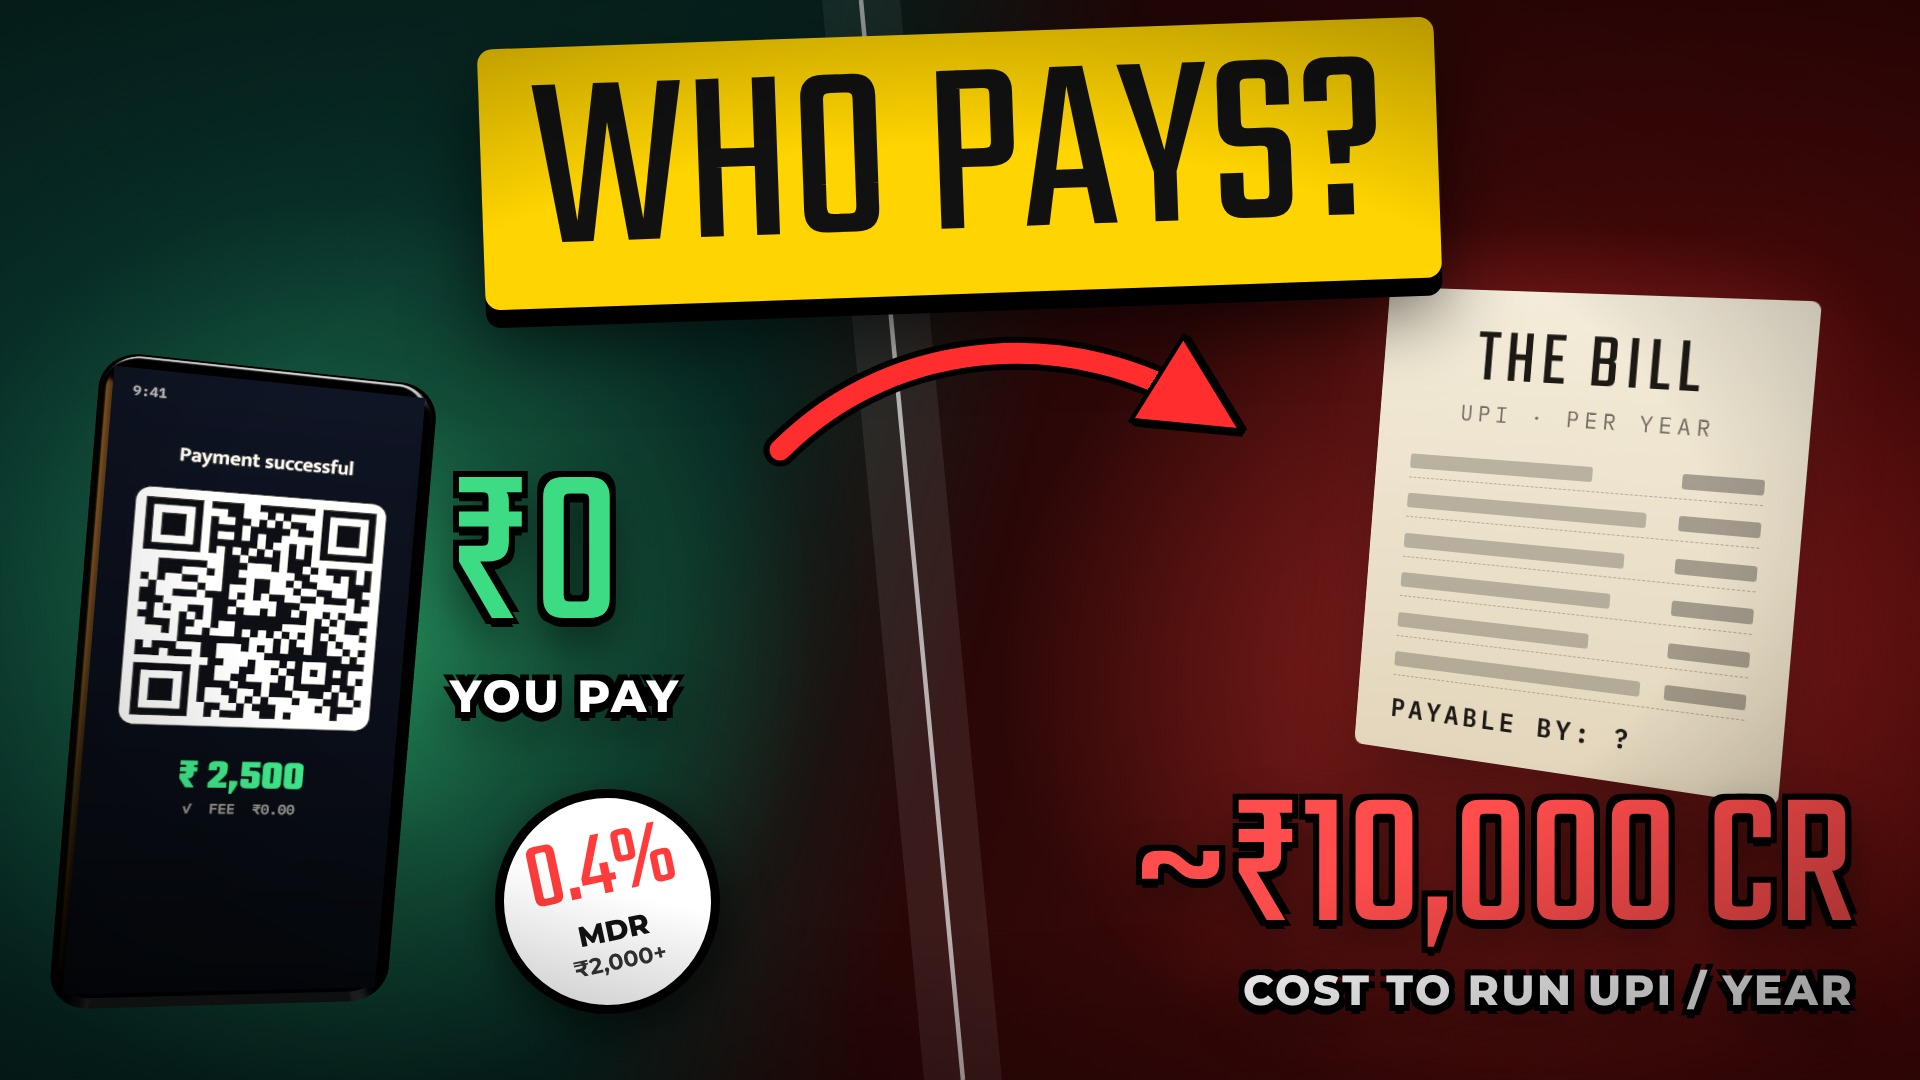
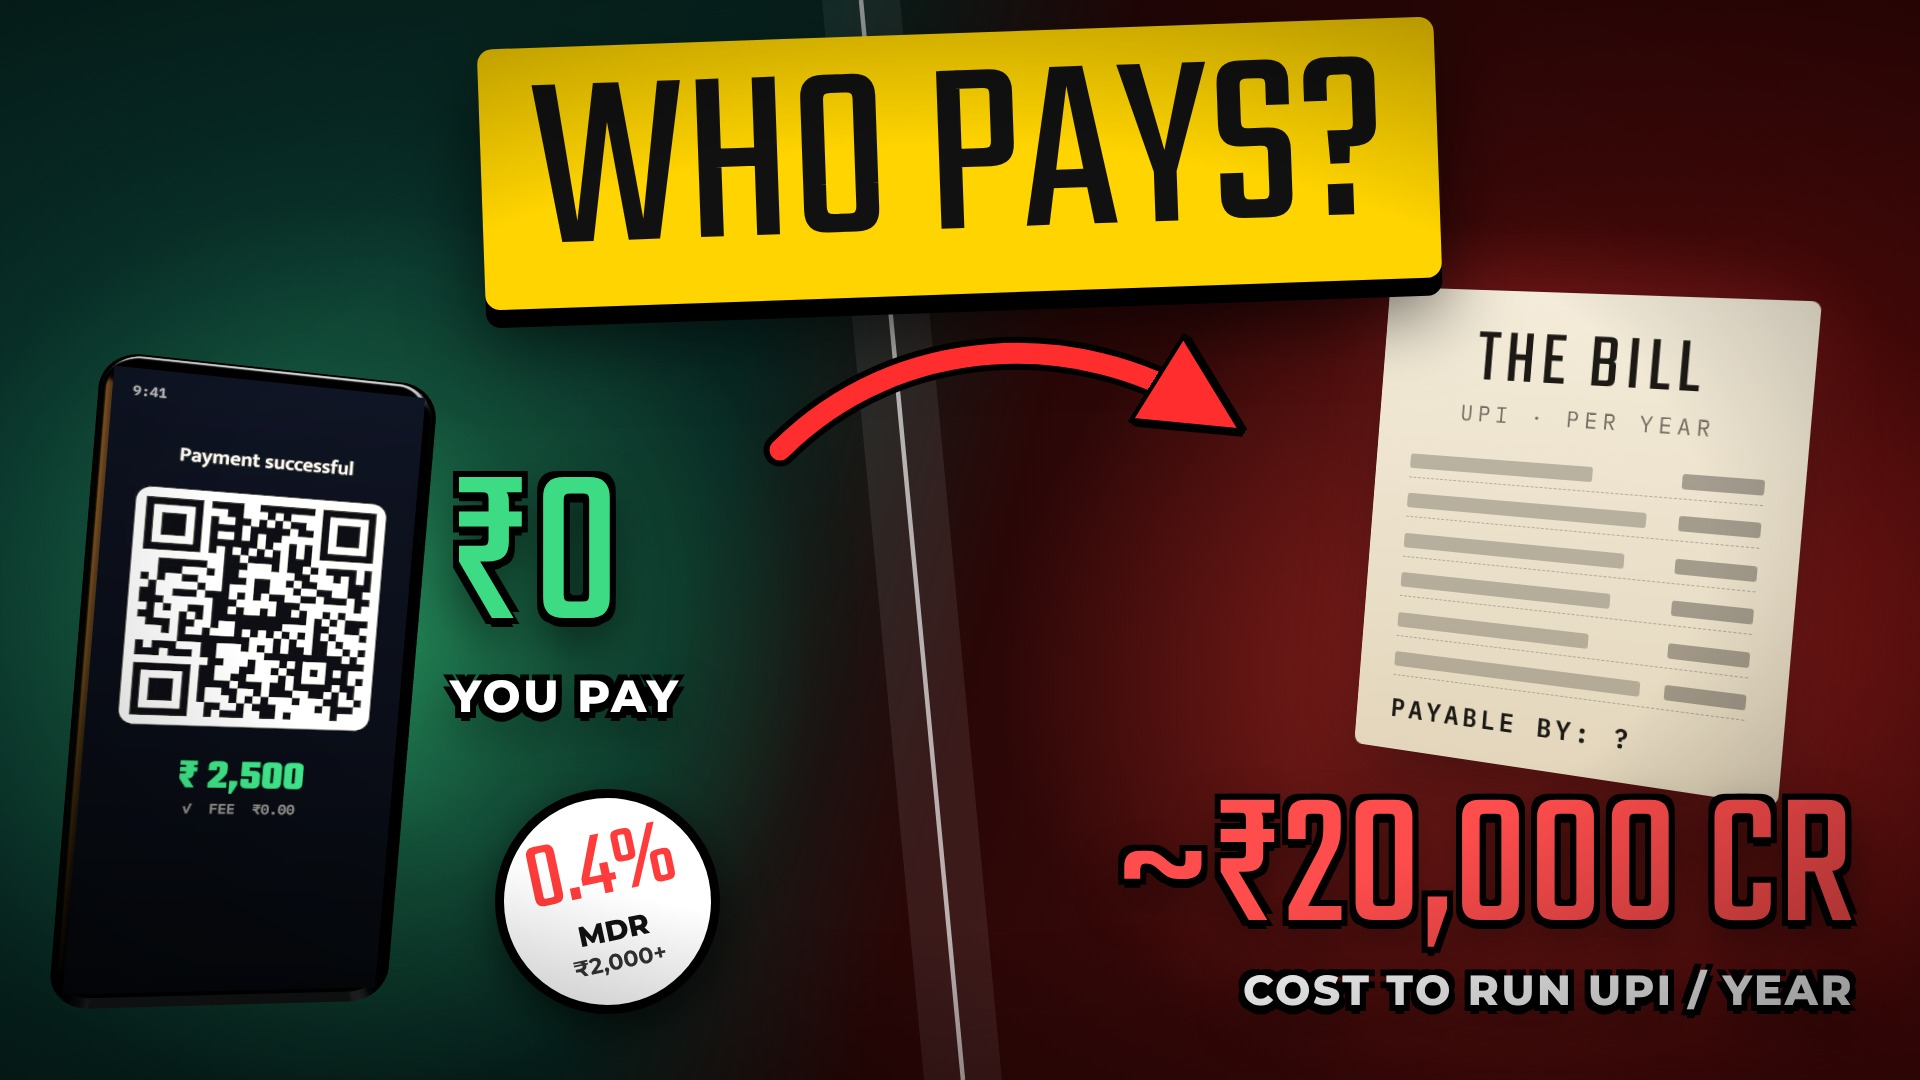
Real official documents in S31; primary-source fact checks; thumbnail uses official cost figure
- S31 shows the genuine Gazette of India S.O. 5067(E) of 14 Sep 2026 (Hindi page in the Hindi
  edition, English page in the English one; masthead cropped so the State Emblem is not shown)
  and the Ministry of Finance MDR FAQs of 15 Sep 2026 (logo cropped), with push-ins on the
  highlighted lines. Narration c3_02 now matches the pages shown.
- facts.md: 5.4 (flat Rs 5 for railways, telecom, insurance, fuel) confirmed from the FAQ (Q33)
  and the PIB release; 5.2 linked to the Gazette and FAQ PDFs; 5.8 stays unconfirmed (NPCI site
  refused downloads) and is not used; new 5.9: ~Rs 20,000 cr a year to run UPI (FAQ Q10).
- Thumbnail 3 now uses that official ~Rs 20,000 crore figure.

Claude-Session: https://claude.ai/code/session_016xnG3rMWhDawY9rWMhLxs2

Changed region(s): [[0.5625, 0.7333, 0.7188, 0.8861]]

diff --git a/upi-documentary/video/src/scenes/bill.tsx b/upi-documentary/video/src/scenes/bill.tsx
@@ -68,28 +68,44 @@ export const S31_Notification: React.FC<SceneProps> = ({ seg }) => {
   const second = L.c3_02.at + Math.round(L.c3_02.len * L.c3_02.fr(0.55));
   const a = prog(frame, L.c3_02.at, 26, ease.cam);
   const b = prog(frame, second, 26, ease.cam);
-  const cam = { x: keys(frame, [[0, -220], [second, -150], [seg.frames, 180]]), y: -20 + drift(frame, 3, 8), z: keys(frame, [[0, -180], [seg.frames, 60]]), ry: keys(frame, [[0, 8], [seg.frames, -8]]) };
+  // documentary push-ins: wide on the Gazette page, push to its highlighted line; then pan to the FAQ and push again
+  const W1 = lang === "en" ? 760 : 620;
+  const H1 = lang === "en" ? (W1 * 580) / 1324 : (W1 * 1190) / 1324;
+  const off1 = ((lang === "en" ? 0.62 : 0.695) - 0.5) * H1 * 1.04;
+  const off2 = (0.6 - 0.5) * ((560 * 1671) / 1323) * 0.97;
+  const X1 = -170, X2 = 330;
+  const cam = {
+    x: keys(frame, [[0, X1], [second, X1], [second + 34, X2], [seg.frames, X2 + 20]]),
+    y: keys(frame, [[0, 0], [L.c3_02.at + 40, off1 + 30], [second, off1 + 30], [second + 34, off2 + 20], [seg.frames, off2 + 20]]) + drift(frame, 3, 6),
+    z: keys(frame, [[0, -140], [second - 4, 560], [second + 34, 360], [seg.frames, 540]]),
+    ry: keys(frame, [[0, 6], [seg.frames, -6]]),
+  };
   return (
     <AbsoluteFill>
       <Backdrop hue="neutral" light={0.8} />
       <ParallaxWorld cam={cam}>
-        <Layer z={-80} x={-230} y={60 + (1 - a) * 400} rotateY={10} opacity={a}>
+        <Layer z={-60} x={X1} y={30 + (1 - a) * 400} rotateY={8} opacity={a}>
           <AbsoluteFill style={{ alignItems: "center", justifyContent: "center" }}>
             <div style={{ transform: "rotate(-3deg)" }}>
-              <DocPage name="mof_notification_2026-09-14" title={t("वित्त मंत्रालय — Notification", "Finance Ministry — Notification")} date="14 SEP 2026" width={440} highlight={{ top: 38, height: 5, p: prog(frame, L.c3_02.at + 30, 30) }} />
+              {/* Gazette of India Extraordinary, S.O. 5067(E): Hindi page for the Hindi edition, English page for the English one */}
+              {lang === "en" ? (
+                <DocPage name="mof_notification_2026-09-14_en" title="Gazette of India · S.O. 5067(E)" date="14 SEP 2026" width={W1} aspect={580 / 1324} highlight={{ top: 59.5, height: 5, p: prog(frame, L.c3_02.at + 30, 30) }} />
+              ) : (
+                <DocPage name="mof_notification_2026-09-14" title="भारत का राजपत्र · का.आ. 5067(अ)" date="14 SEP 2026" width={W1} aspect={1190 / 1324} highlight={{ top: 68, height: 3.5, p: prog(frame, L.c3_02.at + 30, 30) }} />
+              )}
             </div>
           </AbsoluteFill>
         </Layer>
-        <Layer z={20} x={330} y={30 + (1 - b) * 400} rotateY={-8} opacity={b}>
+        <Layer z={40} x={X2} y={20 + (1 - b) * 500} rotateY={-6} opacity={b}>
           <AbsoluteFill style={{ alignItems: "center", justifyContent: "center" }}>
             <div style={{ transform: "rotate(2.5deg)" }}>
-              <DocPage name="npci_circular_2026-09-15" title="NPCI — Operational Circular" date="15 SEP 2026" width={440} highlight={{ top: 44, height: 5, p: prog(frame, second + 24, 30) }} />
+              <DocPage name="mof_faq_2026-09-15" title={t("वित्त मंत्रालय — MDR FAQs", "Ministry of Finance — MDR FAQs")} date="15 SEP 2026" width={560} aspect={1671 / 1323} highlight={{ top: 57, height: 6.5, p: prog(frame, second + 24, 30) }} />
             </div>
           </AbsoluteFill>
         </Layer>
       </ParallaxWorld>
       <Dateline en="14 SEP 2026" hi={t("14 सितंबर 2026", "14 September 2026")} start={L.c3_02.at} />
-      <Source text="Finance Ministry notification (14 Sep) · NPCI circular (15 Sep) — via TechCrunch" start={second} />
+      <Source text="Gazette of India S.O. 5067(E), 14 Sep 2026 · Ministry of Finance (DFS) FAQs, 15 Sep 2026" start={second} />
       <Dust count={40} />
       <Letterbox amount={0.45} />
     </AbsoluteFill>

diff --git a/upi-documentary/video/src/components/Media.tsx b/upi-documentary/video/src/components/Media.tsx
@@ -30,24 +30,31 @@ export const PhotoPlate: React.FC<{ name: string; fallback: React.ReactNode; dur
 };
 
 /**
- * A document page. Uses the real page image public/docs/<name>.png when present
- * (extracted from the official PDF in the next session). Otherwise shows an
- * unreadable placeholder page that is clearly a stand-in, never a fake record.
+ * A document page. Uses the real page image public/docs/<name>.png when present (cut from the official
+ * PDF; `aspect` = its height / width, `highlight` in % of that image). Otherwise shows an unreadable
+ * placeholder page that is clearly a stand-in, never a fake record.
  */
-export const DocPage: React.FC<{ name: string; title: string; date: string; width?: number; highlight?: { top: number; height: number; p: number } }> = ({
+export const DocPage: React.FC<{ name: string; title: string; date: string; width?: number; aspect?: number; highlight?: { top: number; height: number; p: number } }> = ({
   name,
   title,
   date,
   width = 620,
+  aspect,
   highlight,
 }) => {
   const file = `docs/${name}.png`;
   const real = has(file);
-  const h = width * 1.414;
+  const h = width * (real && aspect ? aspect : 1.414);
   return (
-    <div style={{ width, height: h, position: "relative", boxShadow: "0 50px 140px rgba(0,0,0,0.8)", background: "#efe7d6", overflow: "hidden" }}>
+    <div style={{ width, height: h, position: "relative", boxShadow: "0 50px 140px rgba(0,0,0,0.8)", background: "#efe7d6" }}>
+      {real && (
+        <div style={{ position: "absolute", left: 0, top: "100%", marginTop: 16, whiteSpace: "nowrap" }}>
+          <div style={{ fontFamily: F.mono, fontSize: 15, letterSpacing: "0.2em", color: C.amber }}>{date}</div>
+          <div style={{ fontFamily: F.hiBody, fontSize: 22, fontWeight: 600, color: C.ink }}>{title}</div>
+        </div>
+      )}
       {real ? (
-        <Img src={staticFile(file)} style={{ width: "100%", height: "100%", objectFit: "cover" }} />
+        <Img src={staticFile(file)} style={{ width: "100%", height: "100%", objectFit: "cover", display: "block" }} />
       ) : (
         <>
           <Img src={staticFile("tex/paper.png")} style={{ position: "absolute", inset: 0, width: "100%", height: "100%", objectFit: "cover" }} />

diff --git a/upi-documentary/video/src/Thumbnails2.tsx b/upi-documentary/video/src/Thumbnails2.tsx
@@ -11,9 +11,9 @@ loadFonts();
 /*
  * Two alternative YouTube thumbnails (1280×720; render with --scale=1.5 for a crisp 1920×1080 upload).
  *   ThumbNever   — dark, cinematic, one hero object + 3 huge words (documentary "downfall" look)
- *   ThumbWhoPays — bright versus layout: ₹0 for you vs ~₹10,000 cr a year, big yellow question, red arrow
- * Every claim on them is one the film makes and sources (₹0 fee to users; ~₹10,000 cr annual cost per the
- * Payments Council of India; 0.4% MDR above ₹2,000).
+ *   ThumbWhoPays — bright versus layout: ₹0 for you vs ~₹20,000 cr a year, big yellow question, red arrow
+ * Every claim on them is sourced (₹0 fee to users; ~₹20,000 cr a year to run UPI per the Ministry of Finance
+ * MDR FAQs of 15 Sep 2026, Q10 — research/facts.md 5.9; 0.4% MDR above ₹2,000).
  */
 
 /* ------------------------------------------------------------------ shared bits */
@@ -143,7 +143,7 @@ export const ThumbNever: React.FC<{ lang?: Lang }> = ({ lang = "hi" }) => {
   );
 };
 
-/* ============================================ B: "₹0 for you — ~₹10,000 cr: WHO PAYS?" */
+/* ============================================ B: "₹0 for you — ~₹20,000 cr: WHO PAYS?" */
 
 const VersusPhone: React.FC = () => {
   const cells = useMemo(() => qrMatrix(QR_TEXT), []);
@@ -208,7 +208,7 @@ export const ThumbWhoPays: React.FC<{ lang?: Lang }> = ({ lang = "hi" }) => {
       <BillPaper lang={lang} />
       {/* right number */}
       <div style={{ position: "absolute", right: 44, top: 528, textAlign: "right" }}>
-        <div style={{ fontFamily: F.hiDisplay, fontSize: 128, lineHeight: 0.85, color: "#ff4d4d", textShadow: outline, whiteSpace: "nowrap" }}>~₹10,000 CR</div>
+        <div style={{ fontFamily: F.hiDisplay, fontSize: 128, lineHeight: 0.85, color: "#ff4d4d", textShadow: outline, whiteSpace: "nowrap" }}>~₹20,000 CR</div>
         <div style={{ fontFamily: F.wide, fontWeight: 800, fontSize: 28, color: "#fff", letterSpacing: "0.06em", textShadow: outline, marginTop: 6 }}>{lang === "en" ? "COST TO RUN UPI / YEAR" : "UPI चलाने का सालाना ख़र्च"}</div>
       </div>
       {/* the big question */}

diff --git a/upi-documentary/research/facts.md b/upi-documentary/research/facts.md
@@ -47,13 +47,14 @@ Confidence: **A** = official/primary or wire report confirmed by 2+ outlets · *
 | # | Claim | Figure | Source | Conf. |
 |---|---|---|---|---|
 | 5.1 | Parliament passed PSS Act amendment 10 Aug 2026; President's assent 17 Aug 2026 | — | [Outlook Business](https://www.outlookbusiness.com/economy-and-policy/amendment-to-taxation-act-payment-and-settlement-systems-act-get-presidents-assent) | A |
-| 5.2 | Finance Ministry notification 14 Sep 2026; NPCI operational circular 15 Sep 2026 | — | [TechCrunch](https://techcrunch.com/2026/09/15/india-ends-free-ride-for-larger-transactions-on-its-ubiquitous-digital-payments-network/), [Medianama](https://www.medianama.com/2026/09/223-pil-supreme-court-charges-upi-payments/) | A |
+| 5.2 | Finance Ministry notification 14 Sep 2026 (Gazette S.O. 5067(E), under PSS Act s.10A: RuPay debit cards and UPI up to ₹2,000 may not be charged); MDR rules and FAQs 15 Sep 2026; NPCI operational circular 15 Sep 2026 | — | [Gazette of India S.O. 5067(E), 14 Sep 2026 (PDF)](https://egazette.gov.in/WriteReadData/2026/276170.pdf) (primary), [Ministry of Finance (DFS) MDR FAQs, 15 Sep 2026 (PDF)](https://financialservices.gov.in/sites/default/files/2026-09/FAQs---Merchant-Discount-Rate--MDR--on-Select-UPI--P2M--Transactions_0.pdf) (primary), [TechCrunch](https://techcrunch.com/2026/09/15/india-ends-free-ride-for-larger-transactions-on-its-ubiquitous-digital-payments-network/), [Medianama](https://www.medianama.com/2026/09/223-pil-supreme-court-charges-upi-payments/) | A |
 | 5.3 | 0.4% MDR on P2M payments above ₹2,000; capped at ₹300 for payments ≥ ₹75,000 | 0.4% / ₹300 | TechCrunch, [AIR](https://newsonair.gov.in/supreme-court-refuses-to-stay-mdr-on-specified-upi-transactions-above-%E2%82%B92000/), [ThePrint](https://theprint.in/india/sc-refuses-to-stay-mdr-on-upi-payments-above-rs-2000-issues-notice-to-centre/3055713/) | A |
-| 5.4 | Flat ₹5 per transaction above ₹2,000 for railways, telecom, insurance, fuel | ₹5 | TechCrunch, AIR | **C** (some blogs say 0.4% for fuel — check NPCI circular) |
+| 5.4 | Flat ₹5 per transaction above ₹2,000 for railways, telecom, insurance, fuel (and agricultural inputs, "among others") | ₹5 | [Ministry of Finance (DFS) MDR FAQs, 15 Sep 2026 (PDF)](https://financialservices.gov.in/sites/default/files/2026-09/FAQs---Merchant-Discount-Rate--MDR--on-Select-UPI--P2M--Transactions_0.pdf) Q33 (primary), [PIB, Ministry of Finance, 15 Sep 2026](https://www.pib.gov.in/PressReleasePage.aspx?PRID=2310586&reg=48&lang=1) | A |
 | 5.5 | Small merchants receiving up to ₹1 lakh/month via UPI exempt | ₹1 lakh | TechCrunch, [CNBC](https://www.cnbc.com/2026/09/17/upi-payments-visa-amazon-phonepe.html) | A |
 | 5.6 | P2P transfers stay free; customers cannot be charged | — | TechCrunch, Finance Ministry statement | A |
 | 5.7 | NPCI estimate: up to ₹20,600 cr a year | ₹20,600 cr | [Business Standard, 18 Sep 2026](https://www.business-standard.com/industry/banking/upi-mdr-returns-rs-2000-merchants-retailers-petrol-pumps-banks-126091800962_1.html) | B |
-| 5.8 | NPCI circular number reported as NPCI/UPI/OC-No.237/2026-27 | — | [SCC Online blog](https://www.scconline.com/blog/post/2026/09/16/npci-released-upi-mdr-faqs-explained/) | **C** (show only if confirmed on the real PDF) |
+| 5.8 | NPCI circular number reported as NPCI/UPI/OC-No.237/2026-27 | — | [SCC Online blog](https://www.scconline.com/blog/post/2026/09/16/npci-released-upi-mdr-faqs-explained/) | **C** — npci.org.in refused downloads from the cloud build environment (HTTP 403), so it is unconfirmed; the number is **not used** anywhere in the film |
+| 5.9 | Industry estimate: running UPI (operations, servers, fraud prevention, bank support) costs ~₹20,000 crore a year | ~₹20,000 cr | [Ministry of Finance (DFS) MDR FAQs, 15 Sep 2026 (PDF)](https://financialservices.gov.in/sites/default/files/2026-09/FAQs---Merchant-Discount-Rate--MDR--on-Select-UPI--P2M--Transactions_0.pdf) Q10 (primary) | A (used on thumbnail 3) |
 
 ## 6. Backlash and status
 
